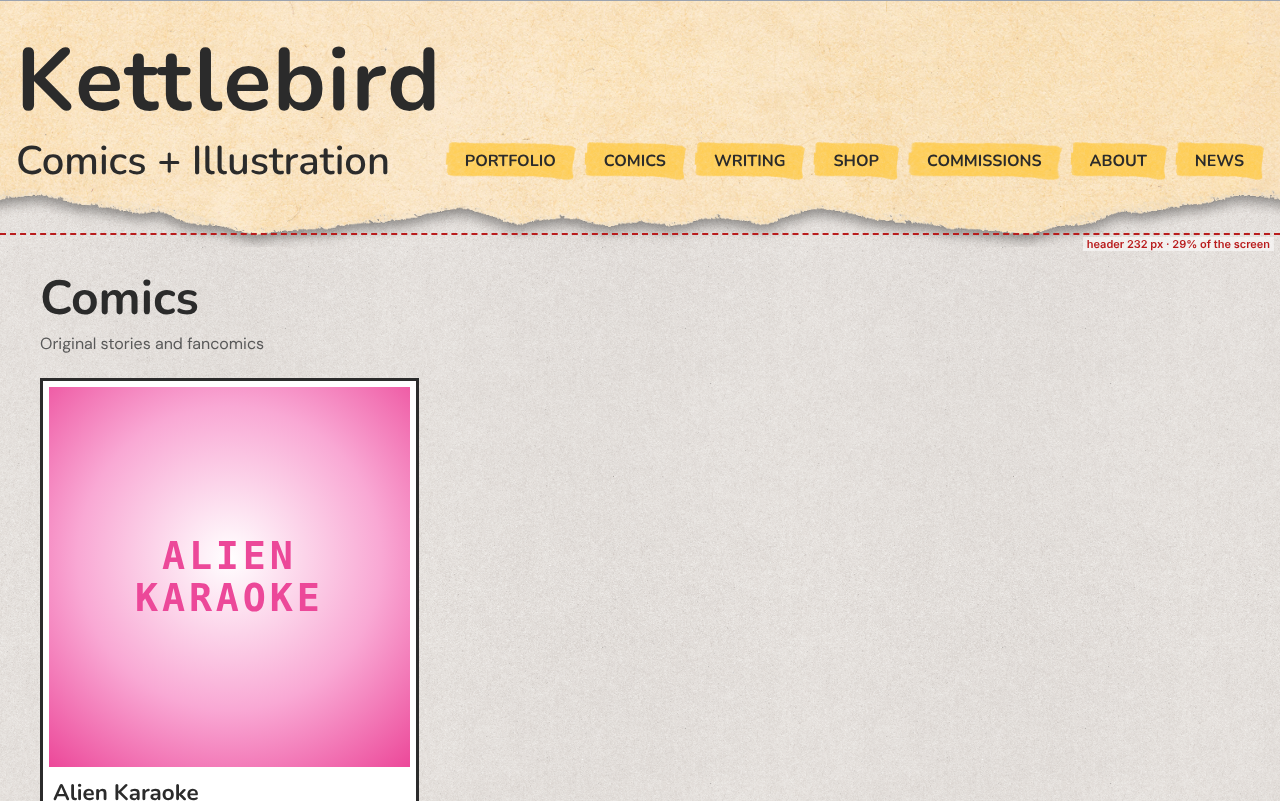
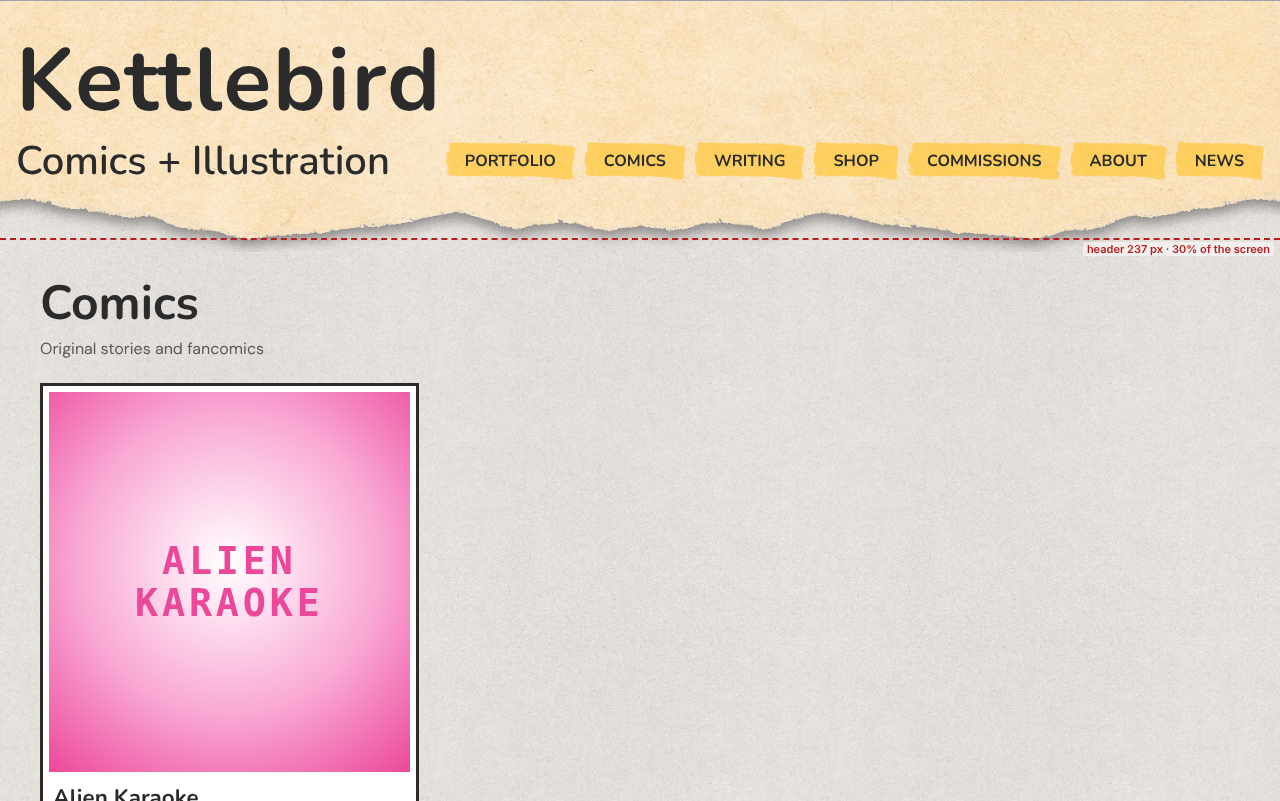
Header design: 5 px more room above the tear on laptops (#83)
At the lead's review of mock-up 8, the tear sat too close to the links. Above
768 px the paper under the content gains 5 px (about 237 px at 1280 x 800).

Claude-Session: https://claude.ai/code/session_01HWRLNSVAoX5Ni8d8XcwJh1

diff --git a/docs/design/mockups/phone-header/mockups.html b/docs/design/mockups/phone-header/mockups.html
@@ -73,7 +73,7 @@
   .laptop.after-l .site-header::before, .a .site-header::before { content: ''; position: absolute; z-index: -1; pointer-events: none;
     inset: 0 0 -1.5cqw 0;  /* vw on the site: the layer reaches below the header by the image's transparent strip */
     background: url('../../../../public/assets/images/Paper_1_Torn.png') no-repeat center bottom / cover; }
-  .laptop.after-l .inner { padding-bottom: max(2.25rem, 3.5cqw); }
+  .laptop.after-l .inner { padding-bottom: calc(max(2.25rem, 3.5cqw) + 5px); }  /* 5 px more above the tear on wider screens, at the lead's review */
   .laptop .content { max-width: 1200px; margin: 0 auto; }
   .laptop .cards { display: grid; grid-template-columns: repeat(3, 1fr); gap: 2rem; }
   .laptop .cover { height: 380px; }

diff --git a/docs/design/phone-header.md b/docs/design/phone-header.md
@@ -33,7 +33,7 @@ The site header has a fixed minimum height of 300 px at every screen width, so t
 | Phone, 390 × 844 | 300 px | 36% | about 119 px, 14% |
 | Tablet, 768 × 1024 (for example an iPad mini) | 300 px | 29% | about 119 px, 12% |
 | Tablet, 820 × 1180 | 300 px | 25% | the laptop layout, as tall as its content |
-| Laptop, 1280 × 800 | 300 px | 38% | about 232 px, 29% |
+| Laptop, 1280 × 800 | 300 px | 38% | about 237 px, 30% |
 
 ## The change (option A, recommended)
 
@@ -48,11 +48,11 @@ On screens up to and including 768 px wide, the width at which the navigation al
 ## Laptops and wider (above 768 px)
 
 - **The same layout as today:** the title, then the subtitle with the row of links beside it, at today's sizes.
-- **No blank space:** the header is as tall as its content, with just enough paper below the links for the tear. On a 1280 × 800 laptop it's about 232 px (29%), from 300 px (38%), and the tear sits right under the links (mock-up 8).
+- **No blank space:** the header is as tall as its content, with just enough paper below the links for the tear. On a 1280 × 800 laptop it's about 237 px (30%), from 300 px (38%), and the tear sits right under the links (mock-up 8).
 
 ## At every width
 
-- **No minimum height.** Under the content there's `max(2.25rem, 3.5vw)` of paper, enough for the whole tear at any width.
+- **No minimum height.** Under the content there's `max(2.25rem, 3.5vw)` of paper on phones, and 5 px more above 768 px, so the tear doesn't crowd the links on a laptop. That's enough for the whole tear at any width.
 - **No transparent strip.** The paper is drawn on a layer that reaches 1.5vw below the header, so the image's transparent bottom strip falls outside the header and the tear is the header's bottom edge. The layer lets clicks through, and the menu panel still opens directly under the header.
 
 **Option B** (mock-up 5) drops the subtitle on phones too, for an 88 px header (10%). It isn't recommended: the subtitle tells a new visitor what the site is, and option A already saves most of the space.
@@ -70,7 +70,7 @@ Each mock-up is a phone screen built to match the site's header, with its fonts,
 | 5 | Option B, no subtitle: 88 px, 10% | `mockups/phone-header/5-option-b.png` |
 | 6 | Option A with text enlarged to 200%: the button moves under the title, and nothing runs off the screen | `mockups/phone-header/6-option-a-text-200.png` |
 | 7 | Today on a laptop, 1280 × 800: 300 px, 38% | `mockups/phone-header/7-laptop-today.png` |
-| 8 | After, on a laptop: about 232 px, 29% | `mockups/phone-header/8-laptop-after.png` |
+| 8 | After, on a laptop: about 237 px, 30% | `mockups/phone-header/8-laptop-after.png` |
 
 ## Layout
 
@@ -90,7 +90,7 @@ Each mock-up is a phone screen built to match the site's header, with its fonts,
 ## For the spec to check
 
 - On 360 × 740, 390 × 844 and 768 × 1024 screens, every page's header is no taller than 130 px.
-- On a 1280 × 800 screen, every page's header is no taller than 240 px, with the title at today's size (`clamp(3.5rem, 8vw, 5.5rem)`) and the subtitle and links on one row.
+- On a 1280 × 800 screen, every page's header is no taller than 245 px, with the title at today's size (`clamp(3.5rem, 8vw, 5.5rem)`) and the subtitle and links on one row.
 - At every width, nothing transparent shows inside the header: the paper reaches its top edge, and its bottom edge is the tear.
 - Up to 768 px wide, the title and the menu button are on the same row, the subtitle is shown under the title, the title links to the home page, and the button is 44 × 44 px.
 - The menu still opens and closes with `aria-expanded`, and its panel starts directly under the header.
@@ -103,6 +103,7 @@ The lead's review (2026-11-02) settled the three open questions:
 1. **Star's sign-off:** Star approves mock-ups 2 to 4.
 2. **Laptops:** remove the unneeded blank space there too ("Laptops and wider", mock-ups 7 and 8).
 3. **The series cover:** go back to the original rule, a third of the screen.
+4. **Room above the tear on laptops:** after seeing mock-up 8, the lead asked for 5 px more between the links and the tear.
 
 ## Persona walkthrough
 
